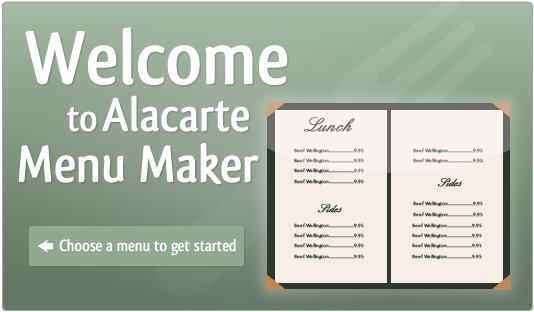
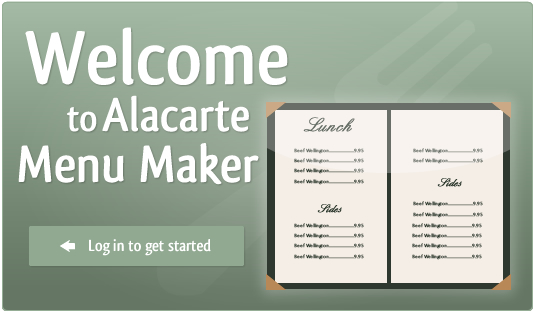
finishing up styling

Changed region(s): [[0.0599, 0.75, 0.4494, 0.8365]]

diff --git a/public/stylesheets/application.css b/public/stylesheets/application.css
@@ -144,6 +144,7 @@ body {
   height: 10px;
   width: 963px;
   margin: auto;
+  margin-bottom: 10px;
 }
 #green_bar {
   text-align: right;
@@ -153,11 +154,13 @@ body {
   color: white;
 }
 #green_bar p {
-  padding-top: 7px;
+  padding-top: 17px;
 }
 #green_bar a {
   color: white;
   margin-left: 30px;
+  margin-right: 10px;
+  line-height: 22px;
 }
 #tabs {
   float: right;
@@ -245,7 +248,9 @@ a:hover {
   margin: 3px 0;
 }
 #new_user_session input[type=text], #new_user_session input[type=password] {
-  width: 180px;
+  width: 184px;
+  color: #444;
+  padding: 5px 3px;
 }
 /***end nav***/
 #inner_container {
@@ -299,11 +304,11 @@ a:hover {
   width: 490px;
   padding-top: 10px;
 }
-#category_name {
+#show_new_category input#category_name {
   height: 21px;
-  width: 289px;
   margin-top: 1px;
   padding-top: 6px;
+  width: 289px;
 }
 .category_sections {
   background: #F7F9F7;
@@ -379,10 +384,24 @@ a:hover {
   margin-top: 3px;
   color: #648466;
 }
-
+/***login form***/
+#user_session_email {
+  width: 300px;
+}
 /***form***/
-
-.form_style input[type=text] {
+.submit_button_style {
+  text-align: center;
+  margin-top: 10px;
+}
+.button_left {
+  float: left;
+  margin-top: 5px;
+}
+.button_right {
+  float: right;
+  margin-top: 5px;
+}
+.form_style input[type=text], .form_style input[type=password] {
   width: 445px;
   height: 21px;
   padding-top: 5px;
@@ -438,11 +457,88 @@ a:hover {
 
 /*** Feedback Form ***/
 #new_feedback input[type=text], #new_feedback textarea {
-  width: 225px;
+  width: 215px;
+}
+#new_feedback {
+  width: 219px;
+  margin: auto;
 }
 #new_feedback textarea {
   font-family: Verdana, Helvetica, Arial;
   font-size: 11px;
-  height: 225px;
+  height: 125px;
+}
+
+#new_feedback label{
+  line-height: 20px;
+}
+
+#new_feedback input[type=image]{
+  margin-left: 133px;
+}
+#new_feedback p:last-child {
+  padding-bottom: 0px;
 }
 /* End Feedback Form */
+
+/*********************************************main page***/
+
+.private_beta p{
+  text-align: center;
+  font-family: tahoma;
+  font-size: 11px;
+  color: #6C7E6C;
+  margin-top: 5px;
+  padding-bottom: 3px;
+}
+
+#user_session_remember_me {
+  margin-right: 4px !important;
+}
+
+/***end main page***/
+/********************************************menu index***/
+
+#menus-list li{
+  margin: 15px;
+  background: #ECF0EC;
+  border: 1px solid #D9DFD9;
+  padding: 5px;
+}
+#menus-list li span {
+  line-height: 25px;
+}
+#button_shift {
+  float: right;
+}
+/***end menu index***/
+/********************************************Your profile***/
+
+#your_profile strong {
+  display: block;
+  padding: 10px;
+  background: #E6ECE6;
+  width: 520px;
+  margin: auto;
+}
+#your_profile div {
+  border: 1px solid #E6ECE6;
+  margin: auto;
+  padding: 10px;
+  width: 520px;
+  margin-bottom: 15px;
+}
+#your_profile {
+  margin-top: 20px;
+  color: #283227;
+  font-family: tahoma;
+  font-size: 12px;
+}
+#your_profile p {
+  padding: 0px;
+}
+#your_profile a img {
+  float: right;
+  margin-right: 47px;
+}
+/***end your profile***/
